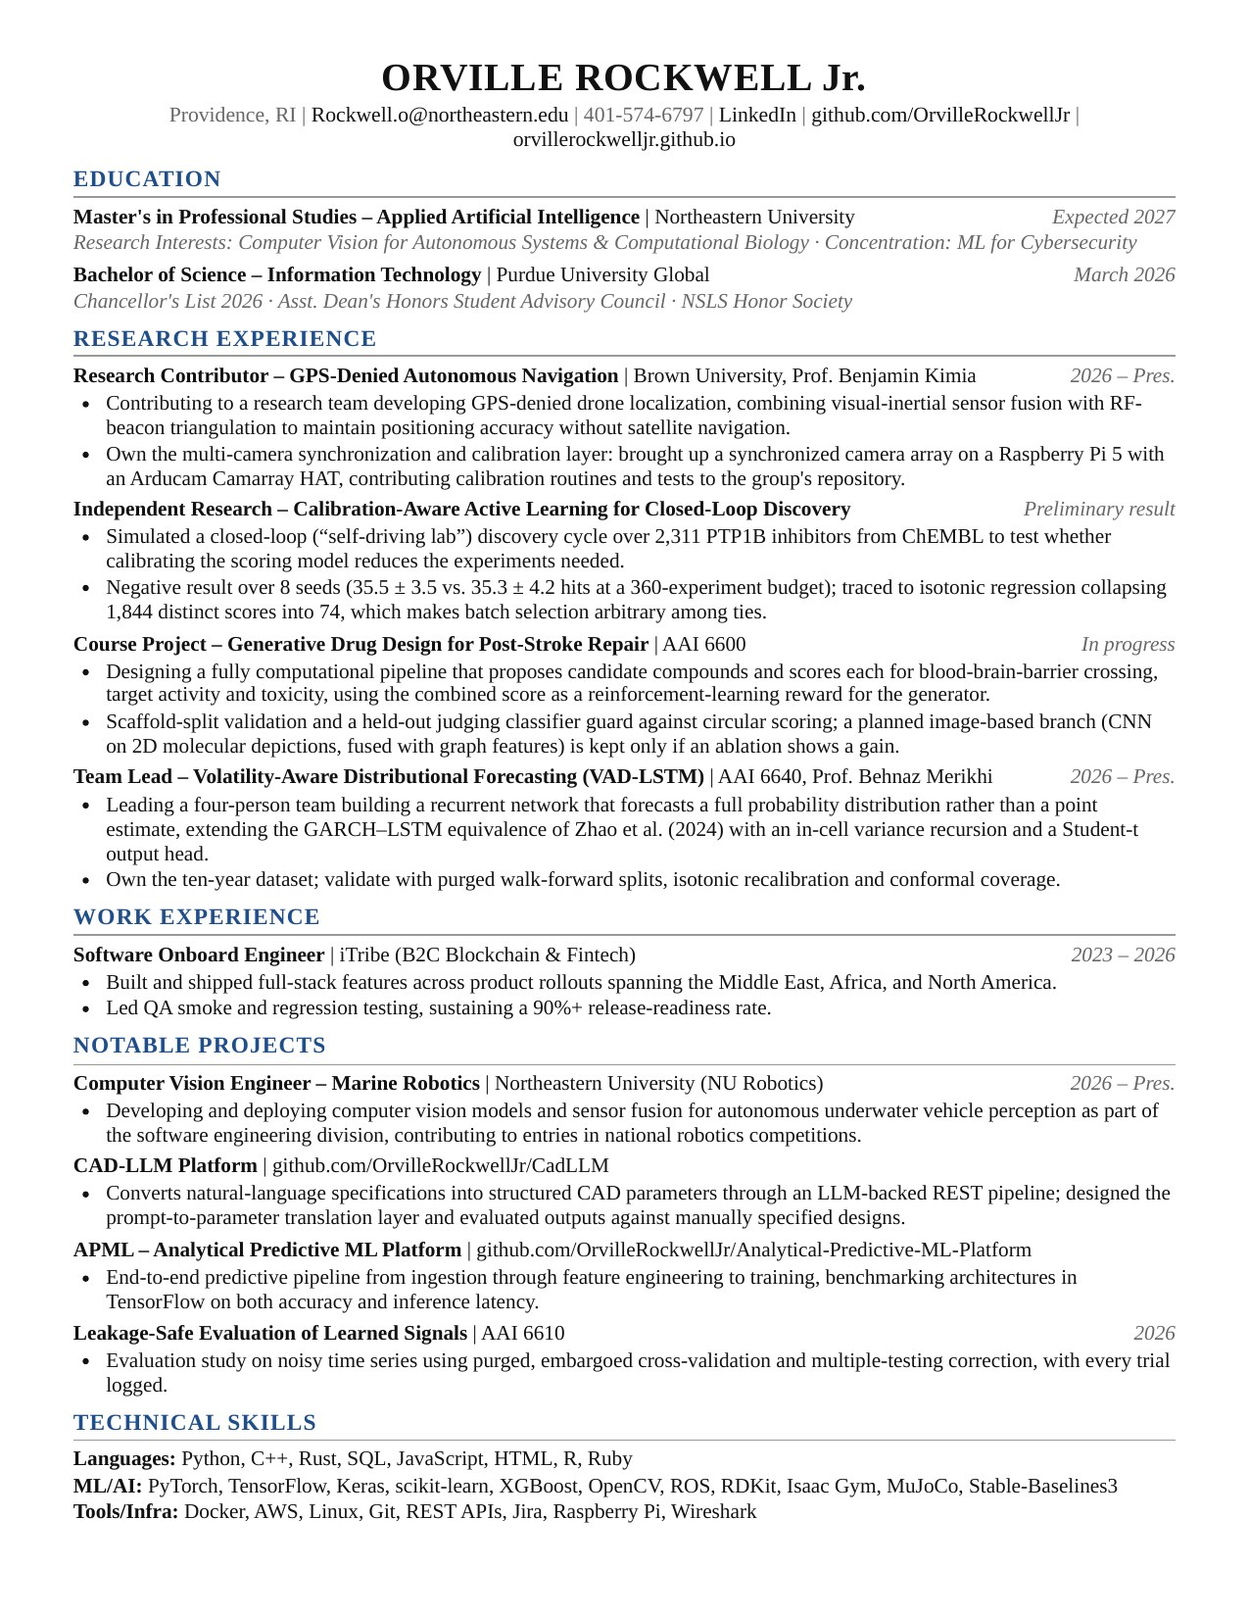
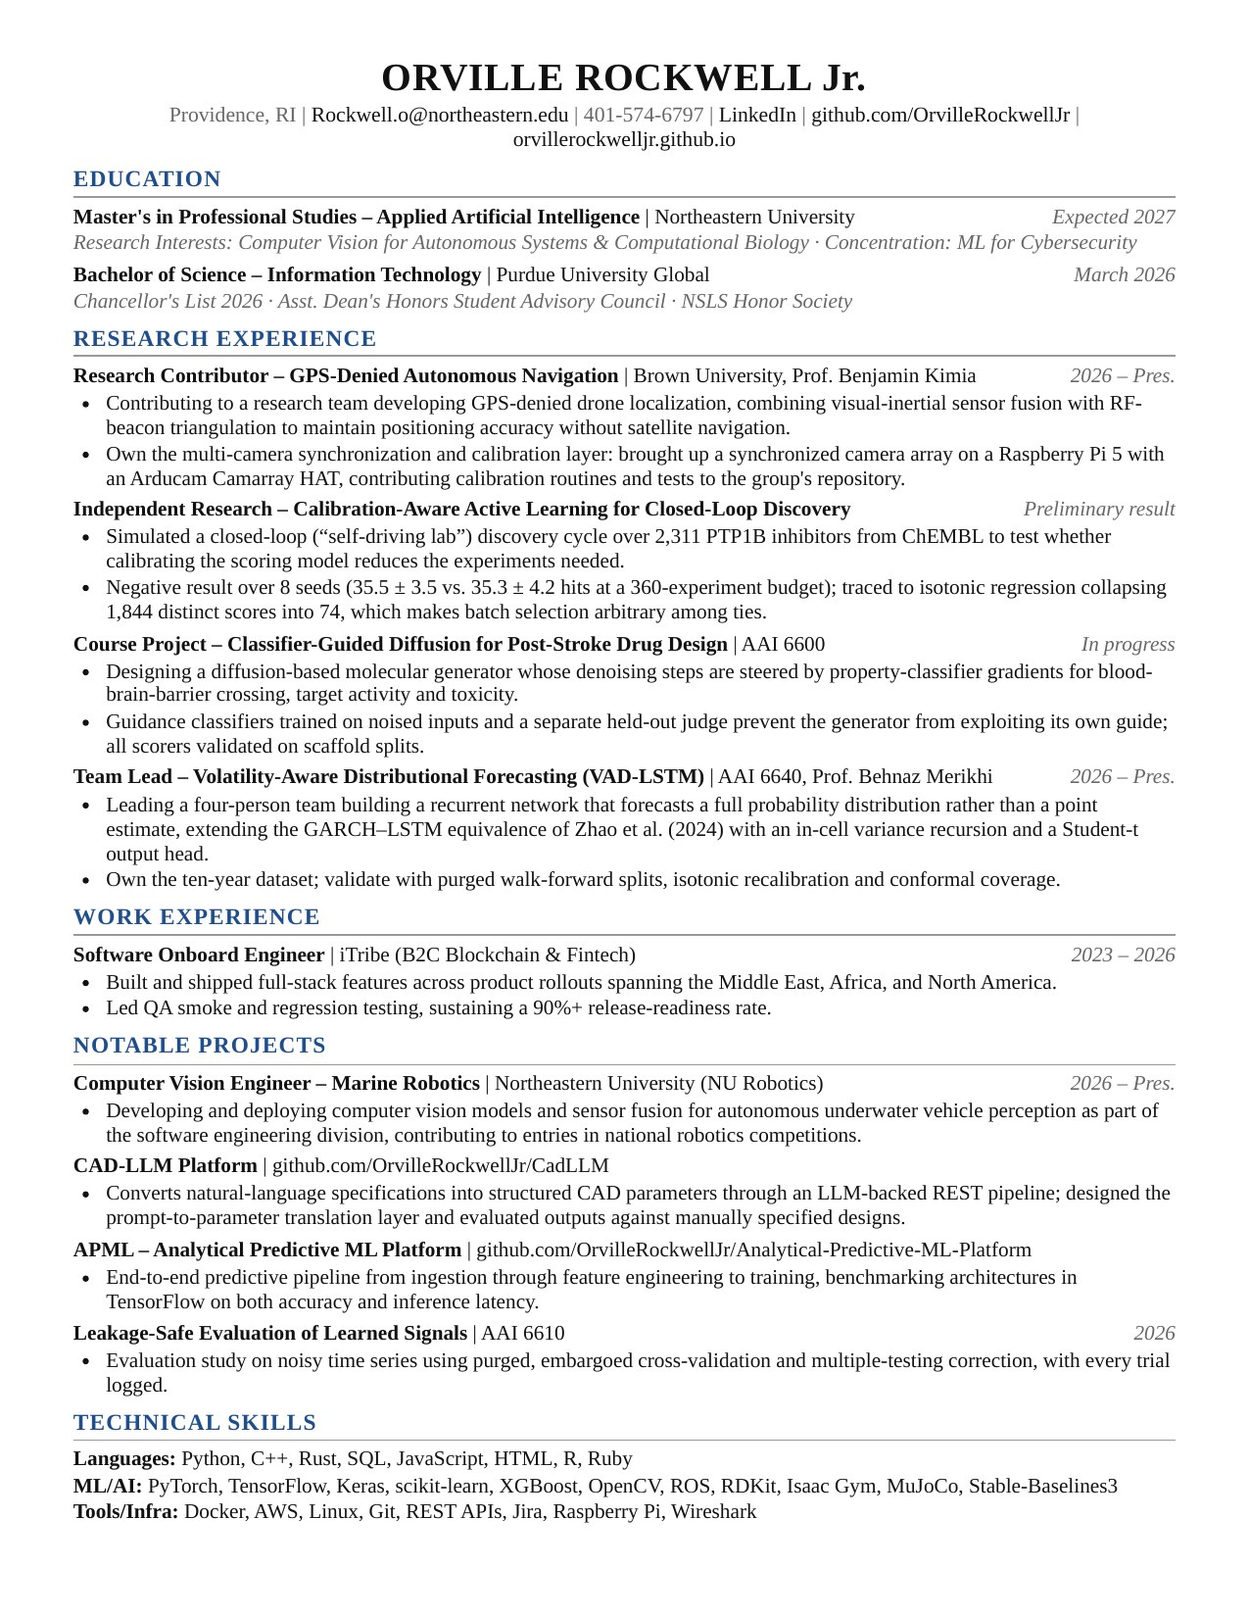
Bring generative vision forward; cut remedial projects
6600 entry reframed as classifier-guided diffusion with a new figure; third
research area and question now cover diffusion/flow matching and cryo-EM
reconstruction; NUWave moved into Research; CAD-LLM, APML and the finance
evaluation removed from the site (kept on the CV); CV 6600 entry updated.

Claude-Session: https://claude.ai/code/session_01LzMNsBUCWWCVnc2S43q3Wu

Changed region(s): [[0.0918, 0.3709, 0.9176, 0.4636]]

diff --git a/index.html b/index.html
@@ -448,7 +448,7 @@ footer::before{content:"";position:absolute;left:0;right:0;top:0;height:4px;back
     <a href="#areas">Areas</a>
     <a href="#research">Research</a>
     <a href="#agenda">Next questions</a>
-    <a href="#projects">Projects</a>
+    <a href="#methods">Methods</a>
     <a href="#contact">Contact</a>
     <a href="cv/Orville_Rockwell_CV.pdf" target="_blank" rel="noopener">CV</a>
   </nav>
@@ -478,11 +478,11 @@ footer::before{content:"";position:absolute;left:0;right:0;top:0;height:4px;back
 
     <section id="areas">
       <h2>Research areas</h2>
-      <p class="lead">My research aims to make visual perception reliable enough to act on: systems that recover geometry and semantics from imperfect sensors, know how far to trust their estimates, and turn them into decisions.</p>
+      <p class="lead">My research aims to make visual perception reliable enough to act on: systems that recover geometry and semantics from imperfect sensors, generate plausible structure where data is missing, and know how far to trust what they produce.</p>
       <ul class="areas">
-        <li class="area" style="--ac:var(--cv)"><h3>Visual perception and 3D vision</h3><p>Recovering structure and meaning from images: multi-camera geometry and calibration, learned detection and recognition, and representations that hold up under blur, low texture and domain shift.</p><p class="methods">Multiview geometry, camera models, CNN detectors, representation learning</p></li>
+        <li class="area" style="--ac:var(--cv)"><h3>Visual perception and 3D vision</h3><p>Recovering structure and meaning from images: multi-camera geometry and calibration, learned detection and recognition, and representations that hold up under blur, low texture and domain shift.</p><p class="methods">Multiview geometry, camera models, CNN detectors, diffusion models, representation learning</p></li>
         <li class="area" style="--ac:var(--auto)"><h3>State estimation for autonomy</h3><p>Fusing vision with inertial and other cues so aerial and underwater vehicles stay localized where GPS fails and visual features are scarce.</p><p class="methods">Visual&ndash;inertial fusion, GPS-denied localization, embedded perception</p></li>
-        <li class="area" style="--ac:var(--bio)"><h3>Uncertainty and closed-loop discovery</h3><p>Calibrated uncertainty for sequential decisions, applied to self-driving-lab discovery today and, next, to vision on biological data such as microscopy and behavior.</p><p class="methods">Calibration, conformal prediction, active learning, Bayesian experimental design</p></li>
+        <li class="area" style="--ac:var(--bio)"><h3>Generative vision for structural biology</h3><p>The diffusion and 3D reconstruction machinery of computer vision, turned on molecules: generating structures under learned constraints, recovering them from cryo-EM images, and deciding which predictions are trustworthy enough to test.</p><p class="methods">Diffusion and flow matching, classifier guidance, cryo-EM reconstruction, calibrated active learning</p></li>
       </ul>
     </section>
 
@@ -492,7 +492,6 @@ footer::before{content:"";position:absolute;left:0;right:0;top:0;height:4px;back
         <li><time>Oct 2026</time><p>Preliminary negative result: calibrating the scoring model does not make closed-loop molecular discovery more efficient. <a href="#loop">Details below.</a></p></li>
         <li><time>Oct 2026</time><p>Joined Prof. Benjamin Kimia's group at Brown (LEMS) on GPS-denied drone navigation, starting with the multi-camera sensing layer.</p></li>
         <li><time>Fall 2026</time><p>Joined Northeastern Marine Robotics, working on deep-learning detection and visual&ndash;IMU fusion for the NUWave ROV.</p></li>
-        <li><time>Fall 2026</time><p>Started the MPS in Applied Artificial Intelligence at Northeastern University.</p></li>
       </ul>
     </section>
 
@@ -581,6 +580,18 @@ footer::before{content:"";position:absolute;left:0;right:0;top:0;height:4px;back
           </div>
         </article>
 
+        <article class="entry t-auto">
+          <div class="thumb"><img src="assets/img/rov.jpg" alt="The NUWave remotely operated underwater vehicle during a pool run" loading="lazy"></div>
+          <div>
+            <h3><span class="mk" style="background:var(--auto)" aria-hidden="true"></span>NUWave: Deep Perception and Sensor Fusion Underwater</h3>
+            <p class="where"><b>Team research project</b>, Northeastern Marine Robotics<br>MATE ROV competition team, 2026 to present</p>
+            <span class="status live">Ongoing</span>
+            <p class="sum">Underwater perception for a semi-autonomous ROV, where turbidity, refraction and changing light break assumptions that hold in air.</p>
+            <p class="key"><b>My part.</b> I develop deep-learning object detection and visual&ndash;IMU sensor fusion in the ROV's ROS perception stack, including the recognition node and its automated tests.</p>
+            <p class="methods">Deep object detection, visual&ndash;IMU fusion, ROS, OpenCV, I&sup2;C and UART</p>
+          </div>
+        </article>
+
         <article class="entry t-bio" id="loop">
           <div class="thumb">
             <svg class="fig" viewBox="0 0 320 200" role="img" aria-label="A closed loop: a model proposes candidates, a batch is selected and tested, and results retrain the model">
@@ -613,28 +624,98 @@ footer::before{content:"";position:absolute;left:0;right:0;top:0;height:4px;back
 
         <article class="entry t-bio">
           <div class="thumb">
-            <svg class="fig" viewBox="0 0 320 200" role="img" aria-label="Property filters narrow a large candidate pool to a small ranked shortlist, with the score feeding back to the generator">
-              <text x="20" y="34" class="lbl">candidates</text>
-              <rect x="20" y="44" width="150" height="13" rx="6.5" class="fl-track"/><rect x="20" y="44" width="150" height="13" rx="6.5" class="fl-bio" opacity=".28"/>
-              <text x="180" y="55">generated</text>
-              <rect x="20" y="72" width="150" height="13" rx="6.5" class="fl-track"/><rect x="20" y="72" width="104" height="13" rx="6.5" class="fl-bio" opacity=".45"/>
-              <text x="180" y="83">barrier</text>
-              <rect x="20" y="100" width="150" height="13" rx="6.5" class="fl-track"/><rect x="20" y="100" width="62" height="13" rx="6.5" class="fl-bio" opacity=".68"/>
-              <text x="180" y="111">target</text>
-              <rect x="20" y="128" width="150" height="13" rx="6.5" class="fl-track"/><rect x="20" y="128" width="29" height="13" rx="6.5" class="fl-bio"/>
-              <text x="180" y="139" class="lbl">ranked</text>
-              <path d="M258 60 C 292 60, 292 150, 150 162 L 40 162" class="st st-bio" opacity=".6" stroke-dasharray="4 4"/>
-              <path d="M48 157 L38 162 L48 167" class="st st-bio" opacity=".6"/>
-              <text x="150" y="184" text-anchor="middle">score becomes reward for the generator</text>
+            <svg class="fig" viewBox="0 0 320 200" role="img" aria-label="A diffusion model denoises random atom positions into a molecule, with property classifiers steering each step">
+<circle cx="76.9" cy="104.0" r="3.0" class="fl-cv" opacity="0.55"/>
+<circle cx="51.6" cy="84.1" r="3.0" class="fl-cv" opacity="0.55"/>
+<circle cx="31.0" cy="82.9" r="3.0" class="fl-cv" opacity="0.55"/>
+<circle cx="13.6" cy="91.6" r="3.0" class="fl-cv" opacity="0.55"/>
+<circle cx="32.1" cy="68.0" r="3.0" class="fl-cv" opacity="0.55"/>
+<circle cx="56.0" cy="93.5" r="3.0" class="fl-cv" opacity="0.55"/>
+<circle cx="55.6" cy="85.6" r="3.0" class="fl-cv" opacity="0.55"/>
+<circle cx="14.6" cy="81.4" r="3.0" class="fl-cv" opacity="0.55"/>
+<circle cx="52.6" cy="104.4" r="3.0" class="fl-cv" opacity="0.55"/>
+<circle cx="67.4" cy="108.1" r="3.0" class="fl-cv" opacity="0.55"/>
+<line x1="142.6" y1="92.9" x2="122.9" y2="78.3" class="st st-bio" stroke-width="1.4" opacity="0.38"/>
+<line x1="122.9" y1="78.3" x2="106.1" y2="80.3" class="st st-bio" stroke-width="1.4" opacity="0.38"/>
+<line x1="106.1" y1="80.3" x2="95.6" y2="90.7" class="st st-bio" stroke-width="1.4" opacity="0.38"/>
+<line x1="95.6" y1="90.7" x2="111.2" y2="79.1" class="st st-bio" stroke-width="1.4" opacity="0.38"/>
+<line x1="111.2" y1="79.1" x2="130.0" y2="91.8" class="st st-bio" stroke-width="1.4" opacity="0.38"/>
+<line x1="130.0" y1="91.8" x2="142.6" y2="92.9" class="st st-bio" stroke-width="1.4" opacity="0.38"/>
+<line x1="142.6" y1="92.9" x2="134.3" y2="79.3" class="st st-bio" stroke-width="1.4" opacity="0.38"/>
+<line x1="106.1" y1="80.3" x2="91.7" y2="76.7" class="st st-bio" stroke-width="1.4" opacity="0.38"/>
+<line x1="111.2" y1="79.1" x2="123.5" y2="106.1" class="st st-bio" stroke-width="1.4" opacity="0.38"/>
+<line x1="123.5" y1="106.1" x2="137.1" y2="110.9" class="st st-bio" stroke-width="1.4" opacity="0.38"/>
+<circle cx="142.6" cy="92.9" r="3.0" class="fl-cv" opacity="0.73"/>
+<circle cx="122.9" cy="78.3" r="3.0" class="fl-cv" opacity="0.73"/>
+<circle cx="106.1" cy="80.3" r="3.0" class="fl-cv" opacity="0.73"/>
+<circle cx="95.6" cy="90.7" r="3.0" class="fl-cv" opacity="0.73"/>
+<circle cx="111.2" cy="79.1" r="3.0" class="fl-cv" opacity="0.73"/>
+<circle cx="130.0" cy="91.8" r="3.0" class="fl-cv" opacity="0.73"/>
+<circle cx="134.3" cy="79.3" r="3.0" class="fl-cv" opacity="0.73"/>
+<circle cx="91.7" cy="76.7" r="3.0" class="fl-cv" opacity="0.73"/>
+<circle cx="123.5" cy="106.1" r="3.0" class="fl-cv" opacity="0.73"/>
+<circle cx="137.1" cy="110.9" r="3.0" class="fl-cv" opacity="0.73"/>
+<line x1="209.3" y1="83.2" x2="194.5" y2="73.3" class="st st-bio" stroke-width="1.4" opacity="0.71"/>
+<line x1="194.5" y1="73.3" x2="180.9" y2="77.9" class="st st-bio" stroke-width="1.4" opacity="0.71"/>
+<line x1="180.9" y1="77.9" x2="176.6" y2="89.8" class="st st-bio" stroke-width="1.4" opacity="0.71"/>
+<line x1="176.6" y1="89.8" x2="189.6" y2="88.8" class="st st-bio" stroke-width="1.4" opacity="0.71"/>
+<line x1="189.6" y1="88.8" x2="204.1" y2="90.3" class="st st-bio" stroke-width="1.4" opacity="0.71"/>
+<line x1="204.1" y1="90.3" x2="209.3" y2="83.2" class="st st-bio" stroke-width="1.4" opacity="0.71"/>
+<line x1="209.3" y1="83.2" x2="212.4" y2="73.7" class="st st-bio" stroke-width="1.4" opacity="0.71"/>
+<line x1="180.9" y1="77.9" x2="168.4" y2="72.7" class="st st-bio" stroke-width="1.4" opacity="0.71"/>
+<line x1="189.6" y1="88.8" x2="194.8" y2="107.7" class="st st-bio" stroke-width="1.4" opacity="0.71"/>
+<line x1="194.8" y1="107.7" x2="207.3" y2="113.5" class="st st-bio" stroke-width="1.4" opacity="0.71"/>
+<circle cx="209.3" cy="83.2" r="3.0" class="fl-bio" opacity="0.89"/>
+<circle cx="194.5" cy="73.3" r="3.0" class="fl-bio" opacity="0.89"/>
+<circle cx="180.9" cy="77.9" r="3.0" class="fl-bio" opacity="0.89"/>
+<circle cx="176.6" cy="89.8" r="3.0" class="fl-bio" opacity="0.89"/>
+<circle cx="189.6" cy="88.8" r="3.0" class="fl-bio" opacity="0.89"/>
+<circle cx="204.1" cy="90.3" r="3.0" class="fl-bio" opacity="0.89"/>
+<circle cx="212.4" cy="73.7" r="3.0" class="fl-bio" opacity="0.89"/>
+<circle cx="168.4" cy="72.7" r="3.0" class="fl-bio" opacity="0.89"/>
+<circle cx="194.8" cy="107.7" r="3.0" class="fl-bio" opacity="0.89"/>
+<circle cx="207.3" cy="113.5" r="3.0" class="fl-bio" opacity="0.89"/>
+<line x1="280.1" y1="76.2" x2="268.8" y2="69.8" class="st st-bio" stroke-width="1.4" opacity="0.95"/>
+<line x1="268.8" y1="69.8" x2="257.6" y2="76.2" class="st st-bio" stroke-width="1.4" opacity="0.95"/>
+<line x1="257.6" y1="76.2" x2="257.6" y2="89.2" class="st st-bio" stroke-width="1.4" opacity="0.95"/>
+<line x1="257.6" y1="89.2" x2="268.8" y2="95.8" class="st st-bio" stroke-width="1.4" opacity="0.95"/>
+<line x1="268.8" y1="95.8" x2="280.1" y2="89.2" class="st st-bio" stroke-width="1.4" opacity="0.95"/>
+<line x1="280.1" y1="89.2" x2="280.1" y2="76.2" class="st st-bio" stroke-width="1.4" opacity="0.95"/>
+<line x1="280.1" y1="76.2" x2="291.3" y2="69.8" class="st st-bio" stroke-width="1.4" opacity="0.95"/>
+<line x1="257.6" y1="76.2" x2="246.3" y2="69.8" class="st st-bio" stroke-width="1.4" opacity="0.95"/>
+<line x1="268.8" y1="95.8" x2="268.8" y2="108.8" class="st st-bio" stroke-width="1.4" opacity="0.95"/>
+<line x1="268.8" y1="108.8" x2="280.5" y2="115.2" class="st st-bio" stroke-width="1.4" opacity="0.95"/>
+<circle cx="280.1" cy="76.2" r="3.4" class="fl-bio" opacity="1.00"/>
+<circle cx="268.8" cy="69.8" r="3.4" class="fl-bio" opacity="1.00"/>
+<circle cx="257.6" cy="76.2" r="3.4" class="fl-bio" opacity="1.00"/>
+<circle cx="257.6" cy="89.2" r="3.4" class="fl-bio" opacity="1.00"/>
+<circle cx="268.8" cy="95.8" r="3.4" class="fl-bio" opacity="1.00"/>
+<circle cx="280.1" cy="89.2" r="3.4" class="fl-bio" opacity="1.00"/>
+<circle cx="291.3" cy="69.8" r="3.4" class="fl-bio" opacity="1.00"/>
+<circle cx="246.3" cy="69.8" r="3.4" class="fl-bio" opacity="1.00"/>
+<circle cx="268.8" cy="108.8" r="3.4" class="fl-bio" opacity="1.00"/>
+<circle cx="280.5" cy="115.2" r="3.4" class="fl-bio" opacity="1.00"/>
+<path d="M80 128 L110 128" class="st st-mute"/><path d="M105 124 L111 128 L105 132" class="st st-mute"/>
+<path d="M154 128 L184 128" class="st st-mute"/><path d="M179 124 L185 128 L179 132" class="st st-mute"/>
+<path d="M228 128 L258 128" class="st st-mute"/><path d="M253 124 L259 128 L253 132" class="st st-mute"/>
+<text x="44" y="146" text-anchor="middle" class="lbl">noise</text>
+<text x="270" y="146" text-anchor="middle" class="lbl">molecule</text>
+<rect x="96" y="160" width="128" height="26" rx="5" class="fl-box" stroke="#C9D0D8"/>
+<text x="160" y="177" text-anchor="middle" class="lbl">property classifiers</text>
+<path d="M160 160 Q 95 150 95 136" class="st st-bio" stroke-dasharray="3 3" opacity=".75"/>
+<path d="M160 160 Q 169 150 169 136" class="st st-bio" stroke-dasharray="3 3" opacity=".75"/>
+<path d="M160 160 Q 243 150 243 136" class="st st-bio" stroke-dasharray="3 3" opacity=".75"/>
+<text x="160" y="24" text-anchor="middle">denoise, steered by classifier gradients</text>
+
             </svg>
           </div>
           <div>
-            <h3><span class="mk" style="background:var(--bio)" aria-hidden="true"></span>Generative Drug Design for Post-Stroke Repair</h3>
+            <h3><span class="mk" style="background:var(--bio)" aria-hidden="true"></span>Classifier-Guided Diffusion for Post-Stroke Drug Design</h3>
             <p class="where"><b>Course project</b>, Applied AI (AAI 6600), Northeastern University</p>
             <span class="status">In progress</span>
-            <p class="sum">Most stroke survivors miss the treatment window and keep lasting disability, partly because scar tissue blocks nerve regrowth. A fully computational pipeline proposes candidate compounds, scores each for barrier crossing, target activity and safety, and uses the combined score as the reinforcement-learning reward that retrains the generator.</p>
-            <p class="key"><b>Design.</b> Scaffold-split validation and a held-out judging classifier guard against the generator gaming its own scorer. A planned vision branch renders each molecule as a 2D image for a CNN and fuses it with graph features, and stays only if an ablation shows it helps.</p>
-            <p class="methods">Generative models, reinforcement learning, scaffold-split evaluation, graph and image fusion</p>
+            <p class="sum">Most stroke survivors miss the treatment window and keep lasting disability, partly because scar tissue blocks nerve regrowth. The pipeline generates candidate molecules with a diffusion model and steers every denoising step with the gradients of property classifiers for blood&ndash;brain-barrier crossing, target activity and toxicity, the same guidance mechanism used to condition image diffusion.</p>
+            <p class="key"><b>Design.</b> Guidance classifiers are trained on noised inputs, and a separate held-out classifier judges the final candidates, so the generator cannot succeed by exploiting its own guide. All scorers are validated on scaffold splits, so reported performance reflects new chemistry rather than memorized analogs.</p>
+            <p class="methods">Diffusion models, classifier guidance, graph neural networks, scaffold-split evaluation</p>
           </div>
         </article>
 
@@ -670,37 +751,16 @@ footer::before{content:"";position:absolute;left:0;right:0;top:0;height:4px;back
         <ol class="qs">
           <li style="--qc:var(--cv)"><span class="mk" aria-hidden="true"></span><div><q>How should uncertainty in a perception system's geometry, from calibration to pose to depth, propagate into the decisions built on it?</q><p>Multi-camera estimates at Brown and score calibration in closed-loop discovery share a failure mode: small, invisible errors become confident downstream choices.</p></div></li>
           <li style="--qc:var(--auto)"><span class="mk" aria-hidden="true"></span><div><q>How can visual&ndash;inertial estimation stay reliable when fast motion and low texture starve the visual front end?</q><p>The GPS-denied drone and the underwater ROV meet this from opposite ends: blur at speed in open air, and murky water with little to track.</p></div></li>
-          <li style="--qc:var(--bio)"><span class="mk" aria-hidden="true"></span><div><q>Can closed-loop scientific discovery observe biology through learned visual representations rather than assay numbers alone?</q><p>Microscopy and behavioral video would let an autonomous experiment loop see each intervention's effect directly.</p></div></li>
+          <li style="--qc:var(--bio)"><span class="mk" aria-hidden="true"></span><div><q>Can the diffusion and 3D reconstruction tools of computer vision recover and design biological structure, and know when their outputs deserve an experiment?</q><p>Cryo-EM is 3D reconstruction from projections with unknown pose, and AlphaFold&nbsp;3 and RFdiffusion are diffusion over coordinates instead of pixels. My closed-loop result suggests the last step, deciding which outputs to trust, deserves as much attention as generation itself.</p></div></li>
         </ol>
       </div>
-    </section>
-
-    <section id="projects">
-      <h2>Projects</h2>
-      <div class="entries">
-        <article class="entry t-auto">
-          <div class="thumb"><img src="assets/img/rov.jpg" alt="The NUWave remotely operated underwater vehicle during a pool run" loading="lazy"></div>
-          <div>
-            <h3><span class="mk" style="background:var(--auto)" aria-hidden="true"></span>NUWave: Deep Perception and Sensor Fusion Underwater</h3>
-            <p class="where"><b>Northeastern Marine Robotics</b>, software and electrical divisions<br>MATE ROV competition team, 2026 to present</p>
-            <p class="sum">Underwater perception for a semi-autonomous ROV, where turbidity, refraction and changing light break assumptions that hold in air.</p>
-            <p class="key"><b>My part.</b> I develop deep-learning object detection and visual&ndash;IMU sensor fusion in the ROV's ROS perception stack, including the recognition node and its automated tests.</p>
-            <p class="methods">Deep object detection, visual&ndash;IMU fusion, ROS, OpenCV, I&sup2;C and UART</p>
-          </div>
-        </article>
-      </div>
-      <ul class="compact" style="margin-top:30px">
-        <li><h3><a href="https://github.com/OrvilleRockwellJr/CadLLM" target="_blank" rel="noopener">CAD-LLM Platform</a></h3><p class="sum">Turns a natural-language specification into structured CAD parameters through a language-model-backed REST pipeline. I designed the prompt-to-parameter translation layer and evaluated outputs against manually specified designs.</p></li>
-        <li><h3><a href="https://github.com/OrvilleRockwellJr/Analytical-Predictive-ML-Platform" target="_blank" rel="noopener">APML: Analytical Predictive ML Platform</a></h3><p class="sum">An end-to-end predictive pipeline from ingestion through feature engineering to training, benchmarking architectures in TensorFlow on both accuracy and inference latency.</p></li>
-        <li><h3>Leakage-Safe Evaluation of Learned Signals</h3><p class="sum">A course study (AAI 6610) on noisy time series: do learned signals survive purged, embargoed cross-validation and multiple-testing correction once every trial is logged? A null result counts as an answer.</p></li>
-      </ul>
     </section>
 
     <section id="methods">
       <h2>Methods and tools</h2>
       <dl class="tools">
         <div><dt>Vision and sensing</dt><dd>Camera calibration, multi-camera synchronization, CNN-based object detection, OpenCV, embedded vision on Raspberry&nbsp;Pi&nbsp;5</dd></div>
-        <div><dt>Estimation and robotics</dt><dd>Visual&ndash;IMU sensor fusion, ROS, I&sup2;C and UART interfaces, hardware bring-up</dd></div>
+        <div><dt>Estimation and robotics</dt><dd>Visual&ndash;IMU sensor fusion, ROS perception stacks, embedded camera hardware bring-up</dd></div>
         <div><dt>Learning</dt><dd>PyTorch, TensorFlow and TensorFlow Probability, sequence models, reinforcement learning (Stable-Baselines3, Isaac Gym, MuJoCo)</dd></div>
         <div><dt>Uncertainty and evaluation</dt><dd>Isotonic recalibration, conformal prediction, active learning, scaffold-split and purged walk-forward validation, ChEMBL and RDKit</dd></div>
       </dl>
